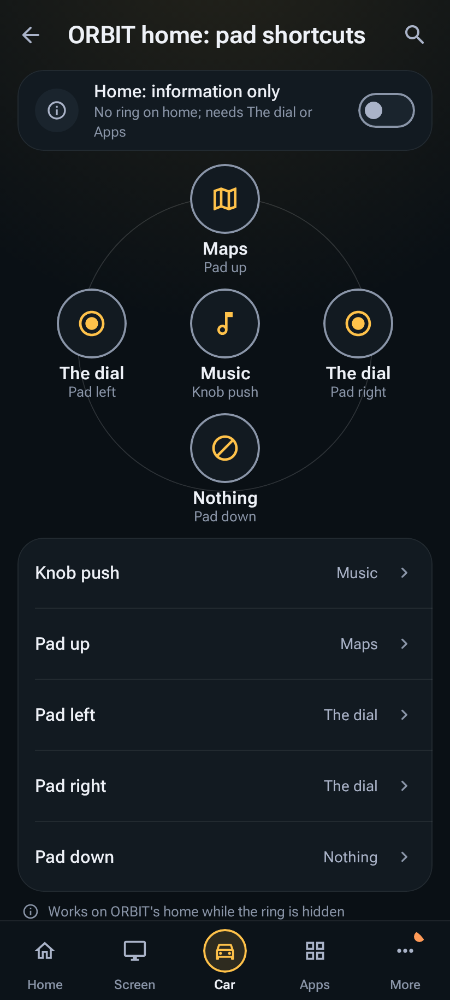
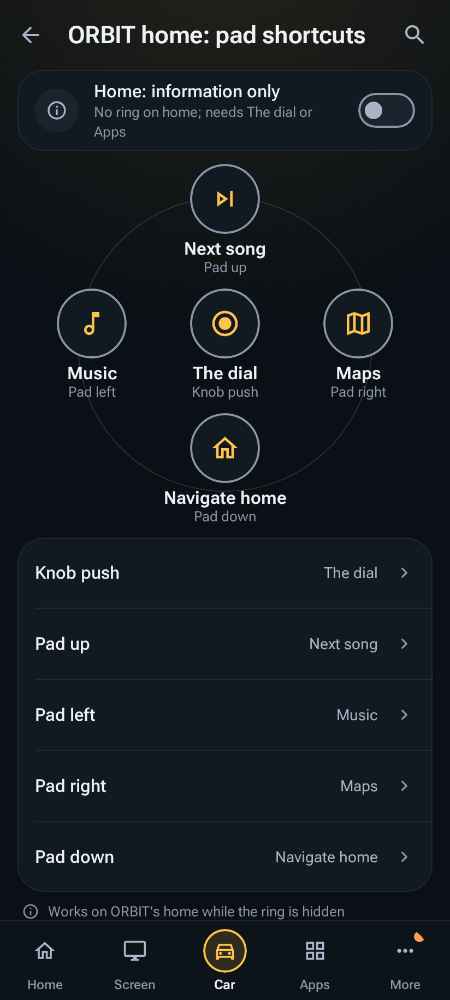
PH-3: a rooted phone can still take the Shizuku way
On Phone apps, the "This phone is rooted" card gains "Use Shizuku" next to
"Allow root"; and when the su prompt is refused, the card says "Root was refused;
Shizuku works too" over the Shizuku steps instead of staying on Allow root. Both
last for this run of the app; the next start offers root again. The built pad
screenshot shows HN-3's new defaults (checked: the drawing and rows follow them).

Claude-Session: https://claude.ai/code/session_0164xm2XQbyH5qTqcV9aVTr9

diff --git a/app/src/main/java/net/prototux/aare/ui/phone/next/NextShizuku.kt b/app/src/main/java/net/prototux/aare/ui/phone/next/NextShizuku.kt
@@ -74,6 +74,13 @@ internal fun suPresent(): Boolean =
     listOf("/system/bin", "/system/xbin", "/sbin", "/su/bin", "/debug_ramdisk", "/system_ext/bin")
         .any { runCatching { java.io.File(it, "su").exists() }.getOrDefault(false) }
 
+/**
+ * Review PH-3: root was refused at the su prompt, or the owner chose Shizuku instead. Then the Shizuku
+ * steps show. For this run of the app only: the next start offers root again.
+ */
+internal var rootDeclined by androidx.compose.runtime.mutableStateOf(false)
+internal var rootRefusedAtPrompt by androidx.compose.runtime.mutableStateOf(false)
+
 /** Tests set this: a computer running them may have its own su. */
 internal var suPresentCheck: () -> Boolean = ::suPresent
 
@@ -85,7 +92,7 @@ internal fun shizukuStepNow(ctx: Context): ShizukuStep {
     val preV11 = running && runCatching { Shizuku.isPreV11() }.getOrDefault(false)
     return shizukuStep(installed, running, allowed,
         android12 = android.os.Build.VERSION.SDK_INT >= android.os.Build.VERSION_CODES.S,
-        rootGranted = CaptureMethods.rootAvailable(ctx), suPresent = suPresentCheck(), preV11 = preV11)
+        rootGranted = CaptureMethods.rootAvailable(ctx), suPresent = suPresentCheck() && !rootDeclined, preV11 = preV11)
 }
 
 /** Re-reads the step on resume and when Shizuku answers the Allow question. */
@@ -100,7 +107,7 @@ internal fun rememberShizukuStep(): ShizukuStep {
         runCatching { Shizuku.addRequestPermissionResultListener(l) }
         onDispose { runCatching { Shizuku.removeRequestPermissionResultListener(l) } }
     }
-    return remember(resumed, answered, rootAnswered) { shizukuStepNow(ctx) }
+    return remember(resumed, answered, rootAnswered, rootDeclined) { shizukuStepNow(ctx) }
 }
 
 internal fun askShizuku() { runCatching { Shizuku.requestPermission(SHIZUKU_REQUEST) } }
@@ -151,12 +158,17 @@ fun ShizukuCard(step: ShizukuStep) {
             NextCard(warn = true, modifier = Modifier.testTag("next-shizuku-card")) {
                 NextRow(stringResource(R.string.next_shz_root_allow_title_label), icon = Icons.Outlined.Lock, disc = DiscTone.WARN,
                     note = RowNote.Help(stringResource(R.string.next_shz_root_allow_help)))
-                Box(Modifier.padding(start = 16.dp, end = 16.dp, bottom = 14.dp)) {
+                Row(Modifier.padding(start = 16.dp, end = 16.dp, bottom = 14.dp), horizontalArrangement = Arrangement.spacedBy(12.dp)) {
                     NextButton(stringResource(R.string.next_shz_root_allow_label), {
                         CaptureMethods.checkRoot { granted ->
-                            android.os.Handler(android.os.Looper.getMainLooper()).post { if (granted) net.prototux.aare.Settings(ctx).rootAudio = true }
+                            android.os.Handler(android.os.Looper.getMainLooper()).post {
+                                if (granted) net.prototux.aare.Settings(ctx).rootAudio = true
+                                else { rootRefusedAtPrompt = true; rootDeclined = true }
+                            }
                         }
-                    }, Modifier.fillMaxWidth(), small = true)
+                    }, Modifier.weight(1f), small = true)
+                    NextButton(stringResource(R.string.next_shz_use_shizuku_label), { rootDeclined = true }, Modifier.weight(1f),
+                        ButtonKind.GHOST, small = true)
                 }
             }
             return
@@ -177,7 +189,8 @@ fun ShizukuCard(step: ShizukuStep) {
     }
     NextCard(warn = true, modifier = Modifier.testTag("next-shizuku-card")) {
         NextRow(stringResource(R.string.next_apps_needs_root_label), icon = Icons.Outlined.Lock, disc = DiscTone.WARN,
-            note = RowNote.Help(stringResource(R.string.next_apps_needs_root_help)))
+            note = if (rootRefusedAtPrompt) RowNote.Warn(stringResource(R.string.next_shz_root_refused_help))
+                else RowNote.Help(stringResource(R.string.next_apps_needs_root_help)))
         Column(Modifier.padding(start = 16.dp, end = 16.dp, bottom = 4.dp)) {
             SHORT_STEPS.forEachIndexed { i, (s, text) -> StepLine(i + 1, stringResource(text), s.ordinal.compareTo(step.ordinal)) }
         }

diff --git a/app/src/test/java/net/prototux/aare/ui/phone/next/NextAppsTest.kt b/app/src/test/java/net/prototux/aare/ui/phone/next/NextAppsTest.kt
@@ -97,6 +97,18 @@ class NextAppsTest {
         } finally { suPresentCheck = { false } }
     }
 
+    @Test fun aRootedOwnerCanChooseShizukuInstead() {
+        // Review PH-3: root refused or not wanted, the Shizuku steps are still reachable.
+        suPresentCheck = { true }
+        try {
+            rule.setContent { NextPhoneAppsPage() }
+            rule.onNodeWithText("Use Shizuku").performClick()
+            rule.waitForIdle()
+            rule.onNodeWithText("Allow root").assertDoesNotExist()
+            rule.onNodeWithText("Get Shizuku").assertExists()
+        } finally { suPresentCheck = { false }; rootDeclined = false; rootRefusedAtPrompt = false }
+    }
+
     @Test fun shizukuSteps() {
         assertEquals(ShizukuStep.INSTALL, shizukuStep(installed = false, running = false, allowed = false))
         assertEquals(ShizukuStep.START, shizukuStep(installed = true, running = false, allowed = false))
